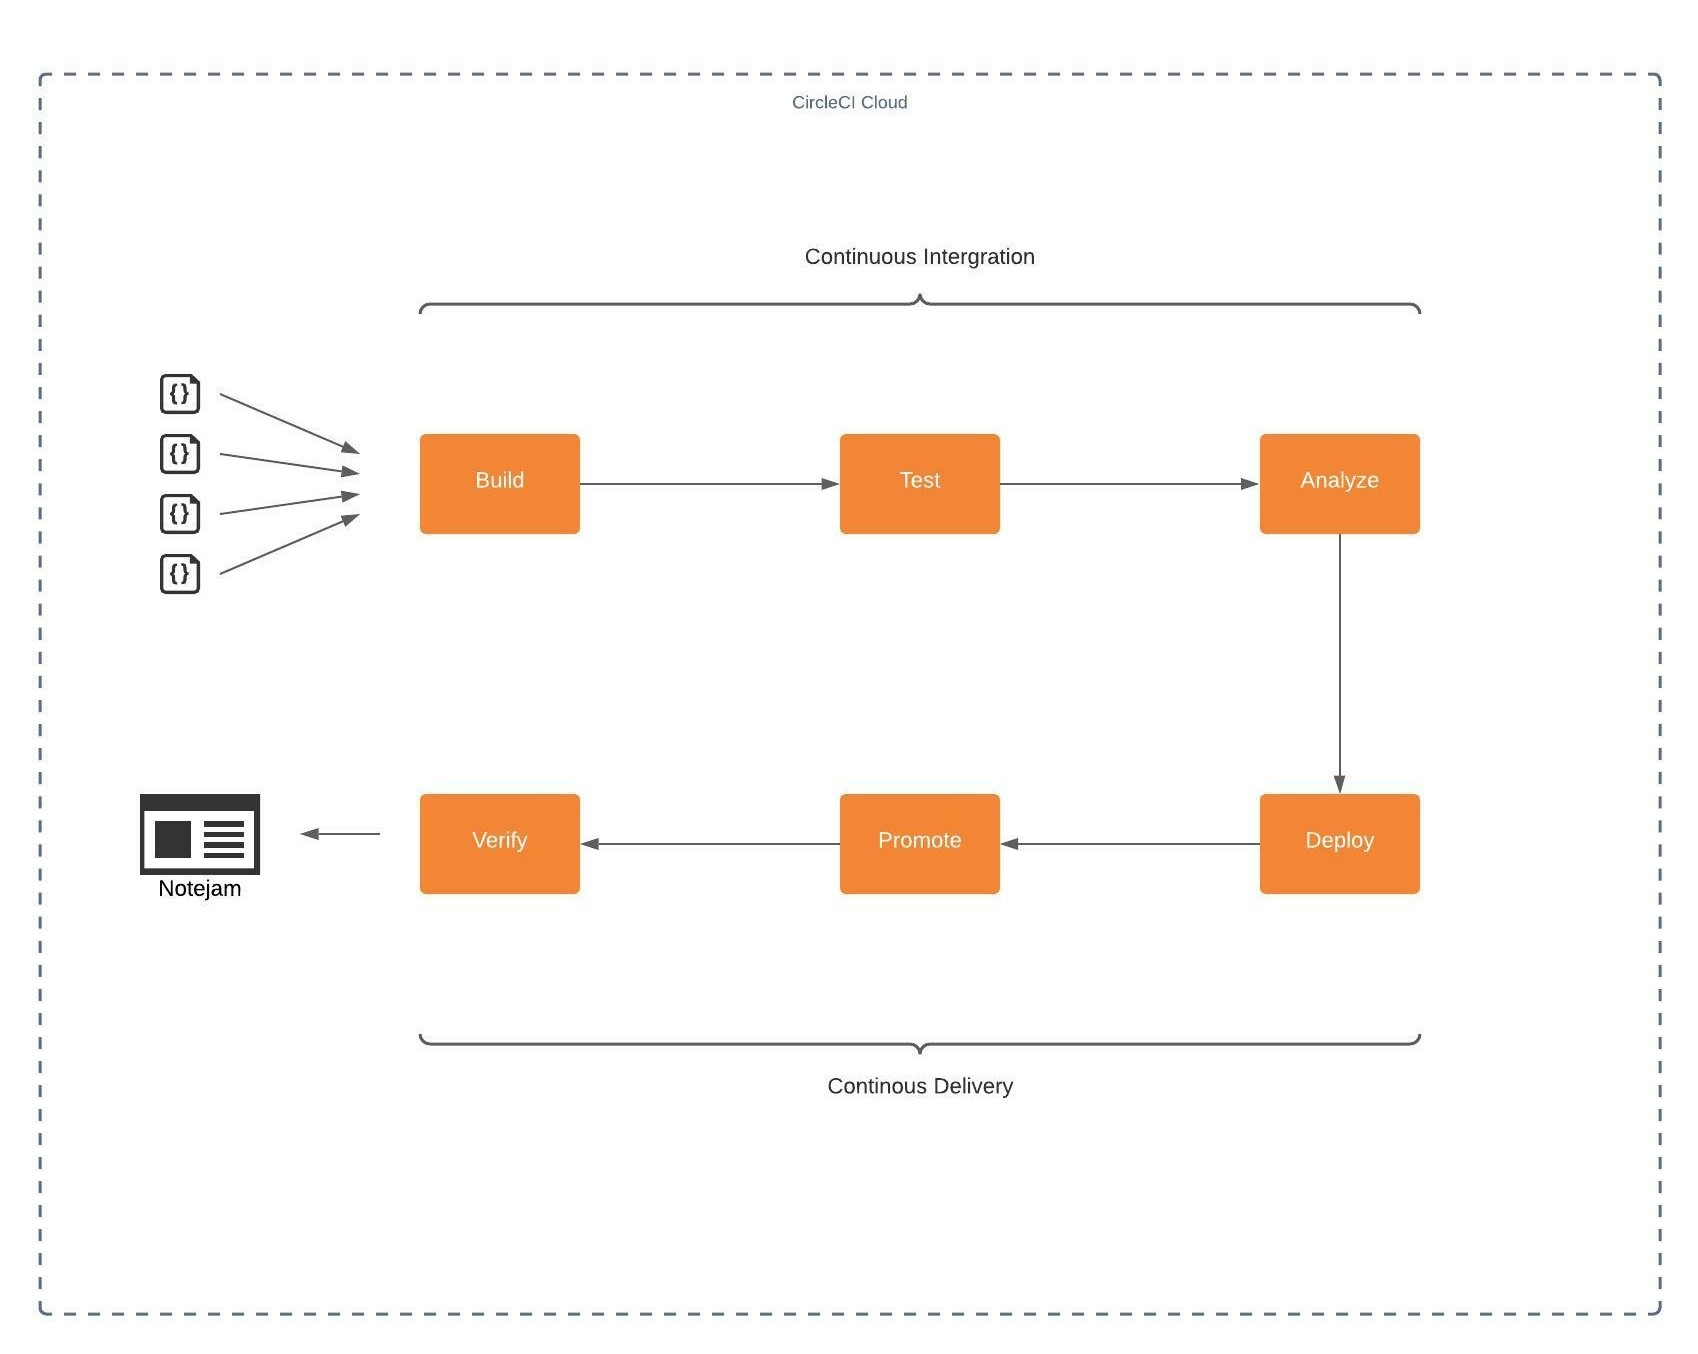
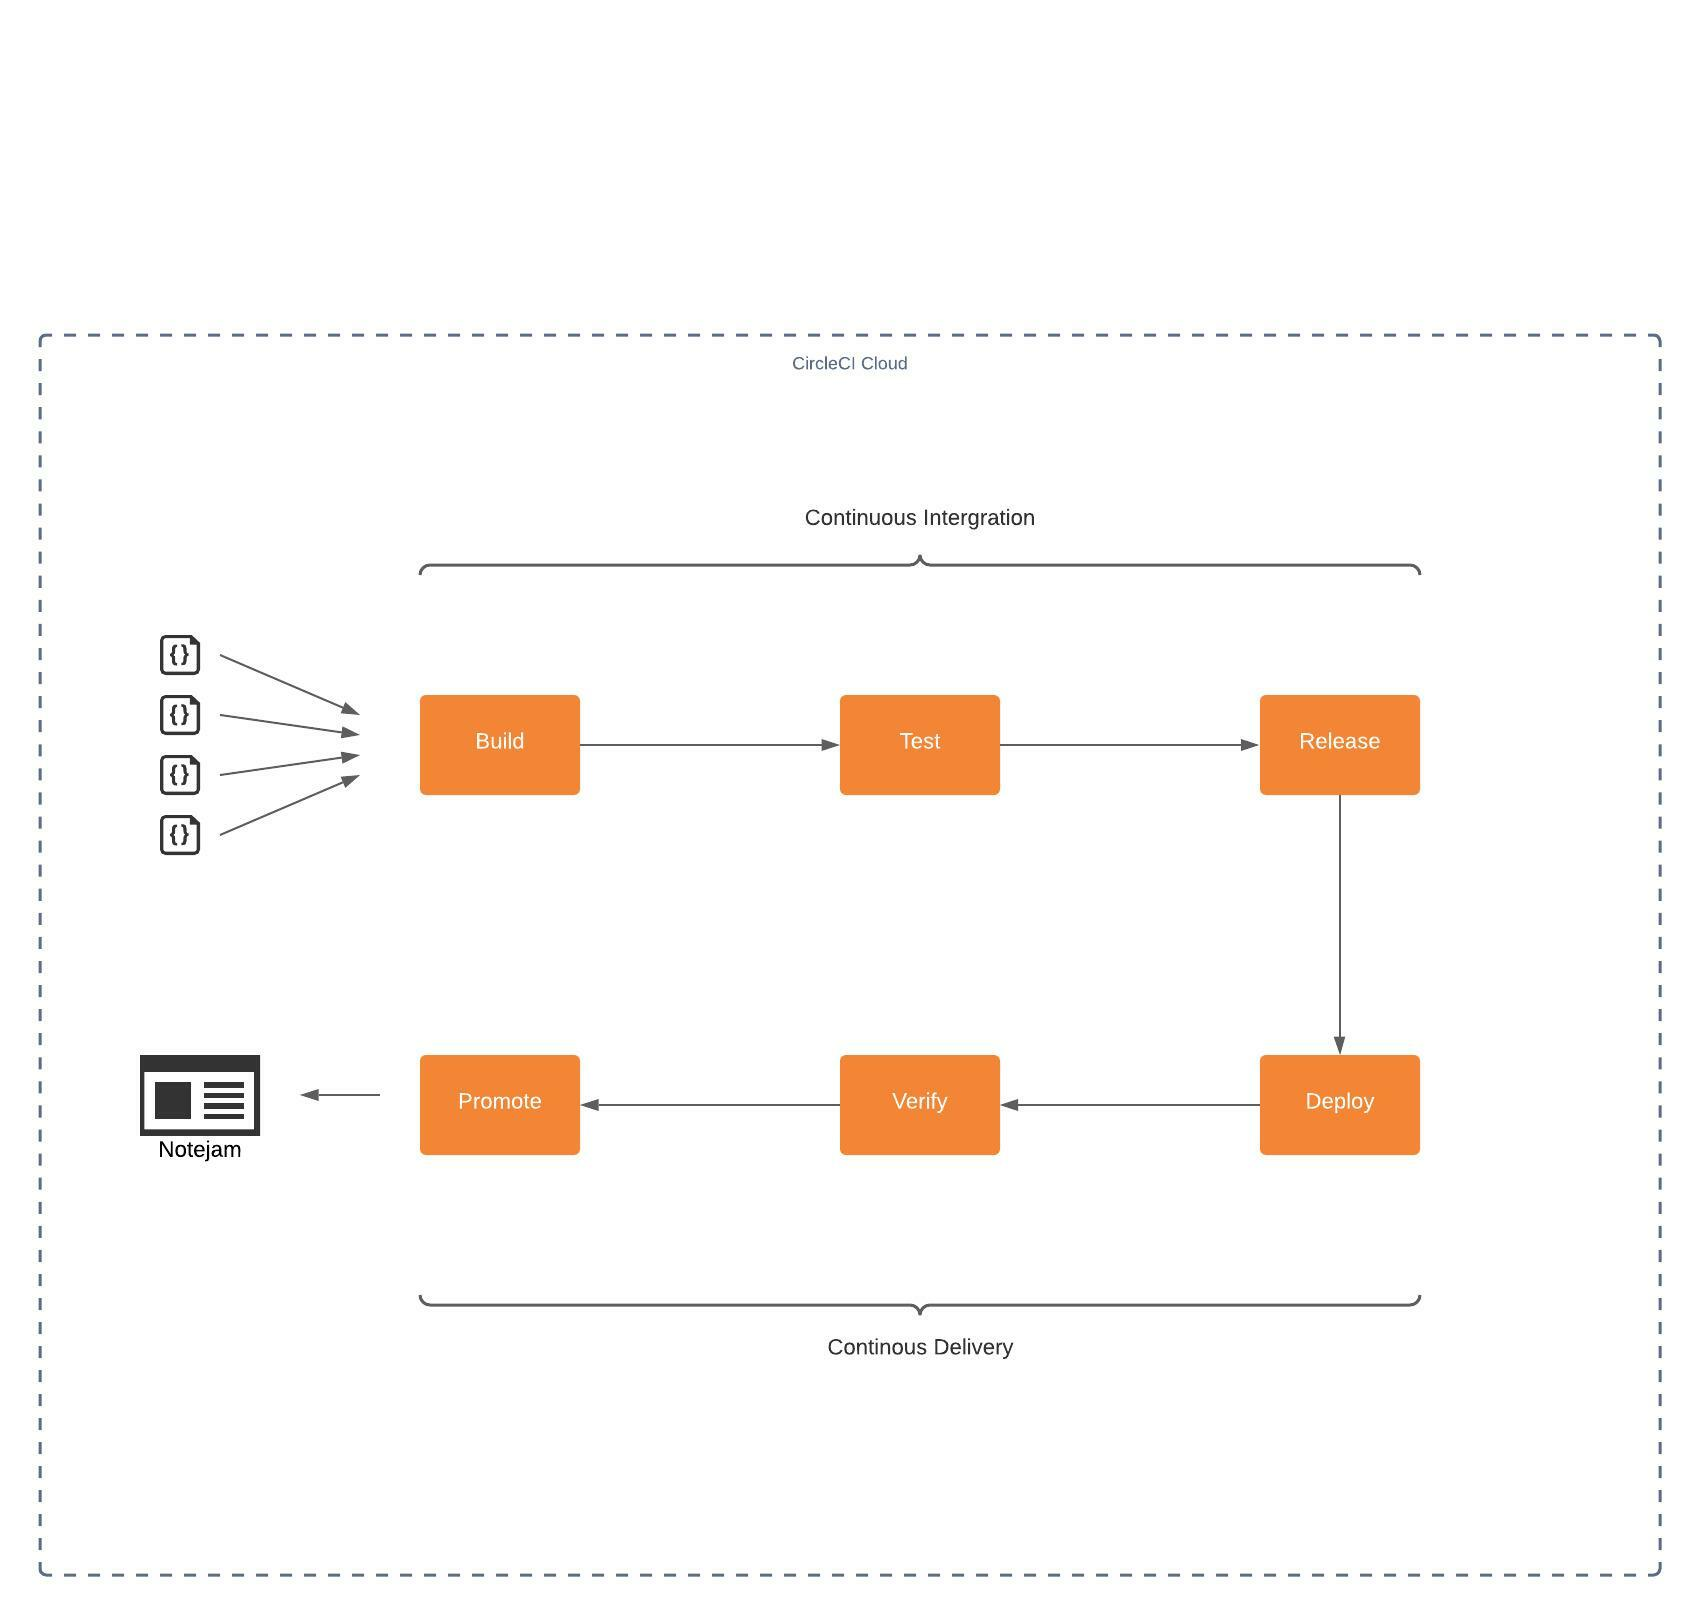
update README

diff --git a/README.md b/README.md
@@ -146,7 +146,13 @@ $ kubectl get pods -n prometheus
 ```
 
 # Establishing #
-
+As a last step of this project we need to set up the CI/CD system (CircleCI) which is going to define the below steps:
+* Build: create the docker image
+* Test
+* Release
+* Deploy
+* Promote
+* Verify
 
 
 
